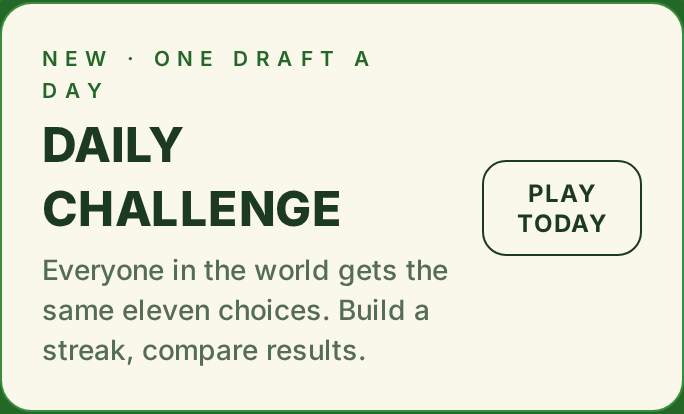
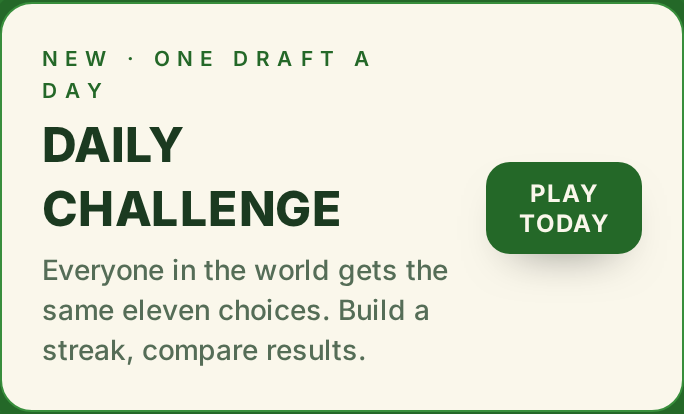
Daily button: back to live green fill with cream text

Changed region(s): [[0.7061, 0.3768, 0.9518, 0.6667]]

diff --git a/src/routes/index.tsx b/src/routes/index.tsx
@@ -102,7 +102,7 @@ function Index() {
                 Everyone in the world gets the same eleven choices. Build a streak, compare results.
               </p>
             </div>
-            <span className="btn-primary hover:btn-primary-hover min-h-0! shrink-0 flex-col gap-0! rounded-xl! border! border-[#1b3a20]! bg-[#faf7eb]! bg-none! px-4! py-2! text-center text-xs leading-tight text-[#1b3a20]! shadow-none!">
+            <span className="btn-primary hover:btn-primary-hover min-h-0! shrink-0 flex-col gap-0! rounded-xl! px-4! py-2! text-center text-xs leading-tight">
               <span className="block">Play</span> <span className="block">today</span>
             </span>
           </Link>
